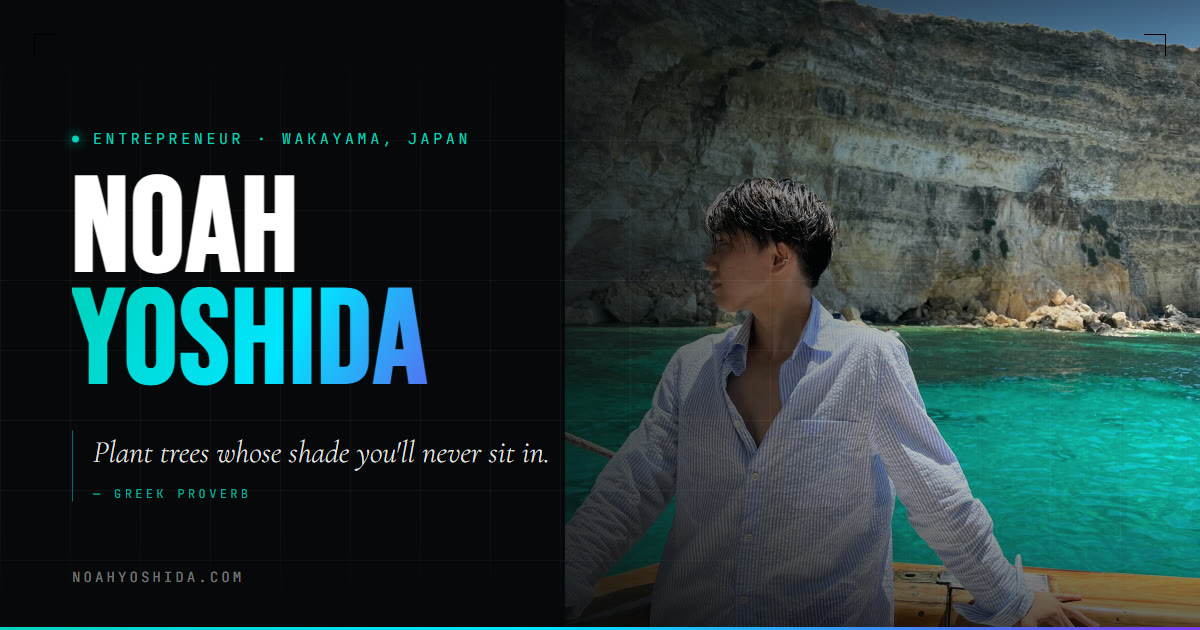
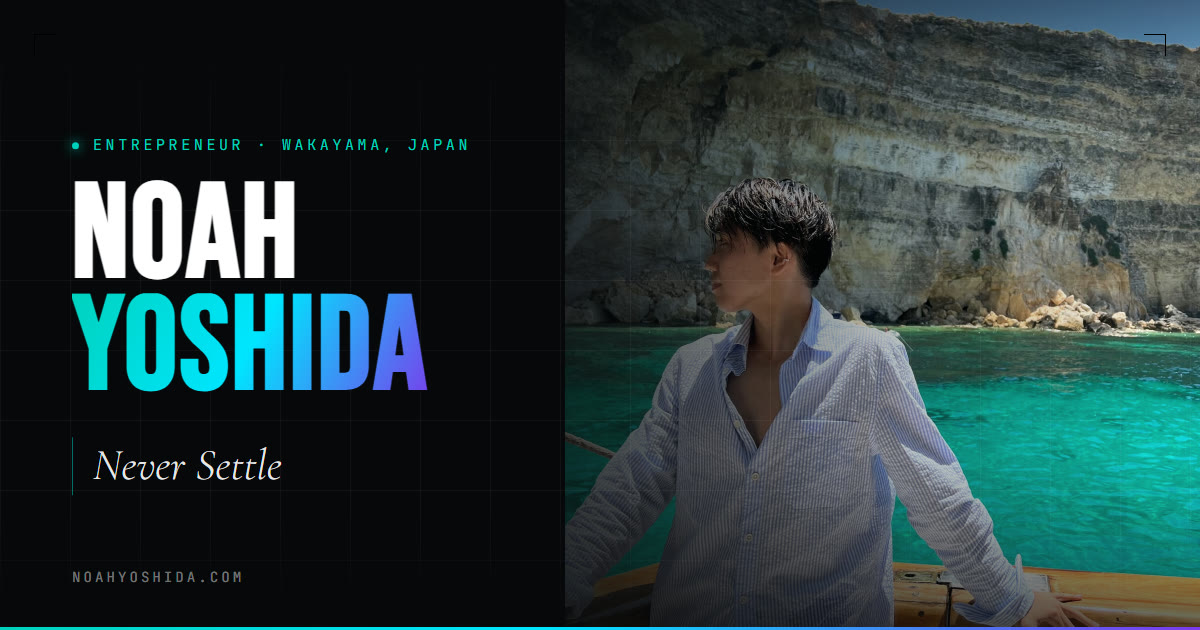
Add files via upload

diff --git a/index.html b/index.html
@@ -1226,9 +1226,9 @@ body nav { top: 28px !important; }
 #page-home .hero-v2 .hq-text{
   display:block;
   font-family:'Cormorant Garamond','Shippori Mincho',Georgia,serif;
-  font-size:clamp(1.15rem,2.1vw,1.6rem);
+  font-size:clamp(1.5rem,3vw,2.3rem);
   font-style:italic;font-weight:300;
-  line-height:1.45;letter-spacing:.01em;
+  line-height:1.35;letter-spacing:.02em;
   color:rgba(255,255,255,0.92);
 }
 #page-home .hero-v2 .hq-cite{
@@ -1240,7 +1240,7 @@ body nav { top: 28px !important; }
 #page-home .hero-v2 .hq-cite::before{content:'— ';}
 @media (max-width:720px){
   #page-home .hero-v2 .hero-quote{margin-top:20px;padding-left:14px;max-width:30ch;}
-  #page-home .hero-v2 .hq-text{font-size:1.12rem;line-height:1.5;}
+  #page-home .hero-v2 .hq-text{font-size:1.45rem;line-height:1.4;}
   #page-home .hero-v2 .hq-cite{font-size:.55rem;margin-top:9px;}
 }
 
@@ -1365,8 +1365,7 @@ body nav { top: 28px !important; }
         <span class="l2">YOSHIDA</span>
       </h1>
       <blockquote class="hero-quote">
-        <span class="hq-text">Plant trees whose shade you'll never sit in.</span>
-        <span class="hq-cite">Greek proverb</span>
+        <span class="hq-text">Never Settle</span>
       </blockquote>
       <div class="ctas">
         <button class="btn-v2 btn-teal-v2" onclick="goTo('about')">About Me <span class="arrow"></span></button>
@@ -1392,27 +1391,27 @@ body nav { top: 28px !important; }
     <div class="val-bg" id="val-bg"></div>
     <p class="sec-label" data-ja="価値観" data-en="Values">価値観</p>
     <h2 class="values-heading" data-ja="WHAT I <span class='teal'>LIVE BY.</span>" data-en="WHAT I <span class='teal'>LIVE BY.</span>">WHAT I <span class="teal">LIVE BY.</span></h2>
-    <p class="values-sub" data-ja="お金や肩書きより、誰とどこでどんな時間を過ごしたかのほうが、あとから効いてくると思っています。だから日々の選び方をそこに寄せています。" data-en="Not money or titles — but what time you spend, with whom, and where. I believe it's the accumulation of each moment that makes life truly rich.">お金や肩書きより、誰とどこでどんな時間を過ごしたかのほうが、あとから効いてくると思っています。だから日々の選び方をそこに寄せています。</p>
+    <p class="values-sub" data-ja="一度きりの人生で大切なのは、肩書きでも数字でもなく、誰とどこでどんな時間を過ごしたかだと思っています。だからこそ常に挑戦できる場所に身を置き、その瞬間を楽しみ切ることを大事にしています。" data-en="In a life you only get once, what matters is not a title or a number but who you spent your time with, and where. So I keep myself somewhere I can always take on something new, and try to enjoy the moment all the way through.">一度きりの人生で大切なのは、肩書きでも数字でもなく、誰とどこでどんな時間を過ごしたかだと思っています。だからこそ常に挑戦できる場所に身を置き、その瞬間を楽しみ切ることを大事にしています。</p>
     <div class="values-grid">
       <div class="val-card">
         <div class="val-en">FREEDOM</div>
         <div class="val-ja" data-ja="自由" data-en="Freedom">自由</div>
-        <div class="val-desc" data-ja="時間や場所に縛られずに働きたくて、そう動けるように事業のほうを組み立ててきました。一度きりなので、やりたいと思った側を選ぶようにしています。" data-en="A life untethered from time and place. You only get one — trust your instincts and move toward the things that matter.">時間や場所に縛られずに働きたくて、そう動けるように事業のほうを組み立ててきました。一度きりなので、やりたいと思った側を選ぶようにしています。</div>
+        <div class="val-desc" data-ja="一日24時間は誰にとっても等しく、それを何に使うかだけが自分次第だと思っています。だから時間や場所に縛られずに働ける形へ事業を組み立て、好きなことに全力を注いできました。道を選ぶときは、いつも直感に従うようにしています。" data-en="Everyone is given the same twenty-four hours; the only part that is yours to decide is what you spend them on. So I have built my work into a shape that is not bound to a time or a place, and poured everything into what I actually want to do. When there is a road to pick, I follow instinct.">一日24時間は誰にとっても等しく、それを何に使うかだけが自分次第だと思っています。だから時間や場所に縛られずに働ける形へ事業を組み立て、好きなことに全力を注いできました。道を選ぶときは、いつも直感に従うようにしています。</div>
       </div>
       <div class="val-card">
         <div class="val-en">CONNECTION</div>
         <div class="val-ja" data-ja="繋がり" data-en="Connection">繋がり</div>
-        <div class="val-desc" data-ja="旅先で一度きりすれ違った人にも、地元で長く付き合っている人にも、同じだけ丁寧でいたいと思っています。振り返ると、自分の節目にはいつも誰かがいました。" data-en="Ichigo-ichie: one lifetime, one meeting. A chance encounter abroad or a familiar face at home — every connection is irreplaceable, and nothing I hold higher.">旅先で一度きりすれ違った人にも、地元で長く付き合っている人にも、同じだけ丁寧でいたいと思っています。振り返ると、自分の節目にはいつも誰かがいました。</div>
+        <div class="val-desc" data-ja="人生は人と人とのご縁でできていると思っています。旅先での一度きりの立ち話が仕事になったり、地元の誰かの一言で進む道が変わったり。そうした偶然に何度も助けられてきたので、人とのつながりは何より大事にしています。" data-en="I think a life is built out of the people who pass through it. A single conversation on the road turns into work; one remark from someone back home changes which way you go. Chance like that has carried me more than once, so nothing matters to me more than the people around me.">人生は人と人とのご縁でできていると思っています。旅先での一度きりの立ち話が仕事になったり、地元の誰かの一言で進む道が変わったり。そうした偶然に何度も助けられてきたので、人とのつながりは何より大事にしています。</div>
       </div>
       <div class="val-card">
         <div class="val-en">ADVENTURE</div>
         <div class="val-ja" data-ja="挑戦" data-en="Adventure">挑戦</div>
-        <div class="val-desc" data-ja="何もないところから立ち上げるのが好きで、ロンドンのおにぎり屋も和歌山のツアーもそこから始まりました。うまくいくか分からない側に、毎回寄っていきます。" data-en="The thrill of building something from zero, and the nerve to step past the edge of what seems possible. Challenge is what makes life feel alive.">何もないところから立ち上げるのが好きで、ロンドンのおにぎり屋も和歌山のツアーもそこから始まりました。うまくいくか分からない側に、毎回寄っていきます。</div>
+        <div class="val-desc" data-ja="ゼロから何かを立ち上げる瞬間が、いちばん面白いと感じます。うまくいく保証がなくても、心がわくわくする側を毎回選ぶようにしています。" data-en="The moment something gets built out of nothing is the part I find most interesting. With no guarantee that it works, I still pick the side that excites me, every time.">ゼロから何かを立ち上げる瞬間が、いちばん面白いと感じます。うまくいく保証がなくても、心がわくわくする側を毎回選ぶようにしています。</div>
       </div>
       <div class="val-card">
         <div class="val-en">QUALITY</div>
         <div class="val-ja" data-ja="豊かさ" data-en="Quality">豊かさ</div>
-        <div class="val-desc" data-ja="稼いだ額よりも、気の合う人と過ごせた時間の長さで自分の一年を測っています。そこが満ちていれば、たいていのことは何とかなると思っています。" data-en="Being fully yourself in this moment, at ease, surrounded by people who matter. That — not the numbers — is what real wealth looks like.">稼いだ額よりも、気の合う人と過ごせた時間の長さで自分の一年を測っています。そこが満ちていれば、たいていのことは何とかなると思っています。</div>
+        <div class="val-desc" data-ja="周りにいる人が幸せそうにしているときが、自分にとっていちばん豊かな時間です。住む場所もやることも、そうなるほうを選んできました。" data-en="The richest hours I have are the ones where the people around me look happy. Where I live and what I work on have both been chosen with that in mind.">周りにいる人が幸せそうにしているときが、自分にとっていちばん豊かな時間です。住む場所もやることも、そうなるほうを選んできました。</div>
       </div>
     </div>
   </section>
@@ -1445,7 +1444,7 @@ body nav { top: 28px !important; }
         <span class="vent-big">TOUR</span>
         <div class="vent-underline"></div>
         <div class="vent-sub" data-ja="和歌山・紀美野町" data-en="Kimino, Wakayama">和歌山・紀美野町</div>
-        <p class="vent-body" data-ja="山の中で、狩猟と星空と焚火を一晩でたどる少人数のツアーを準備しています。2026年秋に日帰りから始めます。" data-en="A small-group tour through hunting, stargazing and fire, across a single night in the mountains. Day trips begin in autumn 2026.">山の中で、狩猟と星空と焚火を一晩でたどる少人数のツアーを準備しています。2026年秋に日帰りから始めます。</p>
+        <p class="vent-body" data-ja="山の中で、狩猟と星空と焚火を一晩でたどる少人数のツアーを準備しています。情報から一度離れて、五感で受け取る感覚を取り戻してもらう時間にしたいと思っています。" data-en="A small-group tour through hunting, stargazing and fire, across a single night in the mountains. I want it to be time away from the feed, where the senses come back.">山の中で、狩猟と星空と焚火を一晩でたどる少人数のツアーを準備しています。情報から一度離れて、五感で受け取る感覚を取り戻してもらう時間にしたいと思っています。</p>
       </div>
       <div class="vent-col">
         <div class="vent-icon">
@@ -1461,11 +1460,10 @@ body nav { top: 28px !important; }
         <div class="vent-icon">
           <svg viewBox="0 0 24 24" fill="none" stroke="currentColor" stroke-width="1.5" stroke-linecap="round" stroke-linejoin="round"><path d="M9 18V5.2l10-2.2V16"/><circle cx="6.5" cy="18" r="2.6"/><circle cx="16.5" cy="16" r="2.6"/></svg>
         </div>
-        <span class="vent-status">001 — 2026.10</span>
         <span class="vent-big">EVENTS</span>
         <div class="vent-underline"></div>
         <div class="vent-sub" data-ja="音楽と食の夜" data-en="Music & Food Nights">音楽と食の夜</div>
-        <p class="vent-body" data-ja="音楽と食を軸にした夜の集まりを企画しています。第1回は2026年10月、大阪の船上で自分がDJに立ちます。" data-en="An evening series built around music and food. For the first night, in October 2026, I am on the decks aboard a boat in Osaka.">音楽と食を軸にした夜の集まりを企画しています。第1回は2026年10月、大阪の船上で自分がDJに立ちます。</p>
+        <p class="vent-body" data-ja="音楽と食を軸にした夜の集まりを企画しています。クルーザーでDJをしたり、同じ食卓を囲んだり。来た人どうしがその場でつながっていくコミュニティにしたいと思っています。" data-en="An evening series built around music and food — a DJ set on a cruiser, a table shared. What I am really building is a room where the people in it connect to each other.">音楽と食を軸にした夜の集まりを企画しています。クルーザーでDJをしたり、同じ食卓を囲んだり。来た人どうしがその場でつながっていくコミュニティにしたいと思っています。</p>
       </div>
       <div class="vent-col">
         <div class="vent-icon">
@@ -1617,7 +1615,7 @@ body nav { top: 28px !important; }
         <div class="biz-name">TOUR</div>
         <div class="biz-sub" data-ja="和歌山・紀美野町の体験ツアー" data-en="Experience Tours in Kimino, Wakayama">和歌山・紀美野町の体験ツアー</div>
         <span class="biz-status">2026 Autumn</span>
-        <p class="biz-desc" data-ja="和歌山県紀美野町の山を舞台に、狩猟と天文台の星空と焚火を一晩でたどるツアーを設計しています。獣害という地域の課題を、来た人が体で分かる体験に変えたいと思っています。2026年秋に日帰りから始めて、宿泊は許認可を整えたうえで2027年春以降に広げる予定です。" data-en="A tour set in the mountains of Kimino, Wakayama, moving through hunting, an observatory sky and fire across a single night. I want the region's problem with crop damage to become something a visitor understands with their body rather than from a panel. Day trips start in autumn 2026; overnight stays follow from spring 2027, once the licensing is in place.">和歌山県紀美野町の山を舞台に、狩猟と天文台の星空と焚火を一晩でたどるツアーを設計しています。獣害という地域の課題を、来た人が体で分かる体験に変えたいと思っています。2026年秋に日帰りから始めて、宿泊は許認可を整えたうえで2027年春以降に広げる予定です。</p>
+        <p class="biz-desc" data-ja="和歌山県紀美野町の山を舞台に、狩猟と天文台の星空と焚火を一晩でたどるツアーを設計しています。獣害という地域の課題を、来た人が体で分かる体験に変えたいと思っています。情報が絶えず流れ込んでくる日常から一度離れて、本来そなわっているはずの人間らしい感覚を取り戻す。そういうリトリートとしての時間を届けたいと考えています。" data-en="A tour set in the mountains of Kimino, Wakayama, moving through hunting, an observatory sky and fire across a single night. I want the region's problem with crop damage to become something a visitor understands with their body rather than from a panel. Step out of a day where information never stops arriving, and the plainly human senses come back. That is the retreat I want this time to be.">和歌山県紀美野町の山を舞台に、狩猟と天文台の星空と焚火を一晩でたどるツアーを設計しています。獣害という地域の課題を、来た人が体で分かる体験に変えたいと思っています。情報が絶えず流れ込んでくる日常から一度離れて、本来そなわっているはずの人間らしい感覚を取り戻す。そういうリトリートとしての時間を届けたいと考えています。</p>
         <div class="biz-tags">
           <span class="biz-tag">Tour</span>
           <span class="biz-tag">Wakayama</span>
@@ -1674,8 +1672,7 @@ body nav { top: 28px !important; }
         </div>
         <div class="biz-name">EVENTS</div>
         <div class="biz-sub" data-ja="音楽と食のイベント" data-en="Music and Food Nights">音楽と食のイベント</div>
-        <span class="biz-status">001 — 2026.10</span>
-        <p class="biz-desc" data-ja="音楽と食を軸にした夜の集まりを企画しています。第1回は2026年10月、大阪の船上で自分がDJに立ちます。来た人どうしがその場で次につながっていくような、回を重ねるほど濃くなる場にしたいと思っています。" data-en="An evening series built around music and food. The first night runs in October 2026 aboard a boat in Osaka, with me on the decks. I want a room where the people in it connect to each other, and which gets denser every time it runs.">音楽と食を軸にした夜の集まりを企画しています。第1回は2026年10月、大阪の船上で自分がDJに立ちます。来た人どうしがその場で次につながっていくような、回を重ねるほど濃くなる場にしたいと思っています。</p>
+        <p class="biz-desc" data-ja="音楽と食を軸にした夜の集まりを企画しています。クルーザーでDJをしたり、同じ食卓を囲んだり。形はそのつど変わりますが、やりたいことは一つで、来た人どうしがその場でつながっていくコミュニティを育てることです。回を重ねるほど濃くなる場にしたいと思っています。" data-en="An evening series built around music and food — a DJ set on a cruiser, a shared table. The format shifts each time, but the aim does not: a community where the people in the room connect to each other, and which gets denser every time it runs.">音楽と食を軸にした夜の集まりを企画しています。クルーザーでDJをしたり、同じ食卓を囲んだり。形はそのつど変わりますが、やりたいことは一つで、来た人どうしがその場でつながっていくコミュニティを育てることです。回を重ねるほど濃くなる場にしたいと思っています。</p>
         <div class="biz-tags">
           <span class="biz-tag">DJ</span>
           <span class="biz-tag">Event</span>
@@ -1759,7 +1756,7 @@ body nav { top: 28px !important; }
         </div>
         <div class="biz-name">LEGACY</div>
         <div class="biz-sub" data-ja="70年続いた家業を継ぐ" data-en="Taking Over a 70-Year-Old Business">70年続いた家業を継ぐ</div>
-        <p class="biz-desc" data-ja="曽祖父が70年前に和歌山で創業した会社を、いま自分の代で引き継いでいます。建設の現場そのものは動かしていません。積み上がった信用と地元の関係を土台にして、事業の中身のほうを作り替えているところです。2027年に社名を変える予定です。" data-en="The company my great-grandfather founded in Wakayama seventy years ago has come to me. The construction side is not trading. What I am doing is rebuilding what the company does, on top of the credit and the local relationships it spent decades earning. It takes a new name in 2027.">曽祖父が70年前に和歌山で創業した会社を、いま自分の代で引き継いでいます。建設の現場そのものは動かしていません。積み上がった信用と地元の関係を土台にして、事業の中身のほうを作り替えているところです。2027年に社名を変える予定です。</p>
+        <p class="biz-desc" data-ja="曽祖父が70年前に和歌山で創業した会社を、いま自分の代で引き継いでいます。積み上がった信用と地元の関係を土台にして、事業の中身のほうを作り替えているところです。2027年に社名を変える予定です。" data-en="The company my great-grandfather founded in Wakayama seventy years ago has come to me. On top of the credit and the local relationships it spent decades earning, I am rebuilding what the company actually does. It takes a new name in 2027.">曽祖父が70年前に和歌山で創業した会社を、いま自分の代で引き継いでいます。積み上がった信用と地元の関係を土台にして、事業の中身のほうを作り替えているところです。2027年に社名を変える予定です。</p>
         <div class="biz-tags">
           <span class="biz-tag">Legacy</span>
           <span class="biz-tag">Wakayama</span>
@@ -1788,7 +1785,7 @@ body nav { top: 28px !important; }
         <div class="biz-name">ZEN MUSUBI.</div>
         <div class="biz-sub" data-ja="ロンドン発・おにぎりブランド" data-en="London Onigiri Brand">ロンドン発・おにぎりブランド</div>
         <span class="biz-status">2022 — 2024</span>
-        <p class="biz-desc" data-ja="ロンドンの大学院に通いながら、おにぎりのブランドをゼロから立ち上げました。日本のソウルフードを手作りのまま出したくて、仕込みから店頭まで自分でやりました。マーケットに出した日、会場でいちばん長い列ができたことをいまでも覚えています。動いていれば助けてくれる人が現れると思えるようになったのは、この経験からです。" data-en="While at graduate school in London I built an onigiri brand from nothing — prep through counter, all of it mine, because I wanted Japanese soul food to stay handmade. At one market our stall had the longest queue in the hall, and I still remember it. That is where I started believing that if you move, people show up to help.">ロンドンの大学院に通いながら、おにぎりのブランドをゼロから立ち上げました。日本のソウルフードを手作りのまま出したくて、仕込みから店頭まで自分でやりました。マーケットに出した日、会場でいちばん長い列ができたことをいまでも覚えています。動いていれば助けてくれる人が現れると思えるようになったのは、この経験からです。</p>
+        <p class="biz-desc" data-ja="日本のソウルフードを手作りのまま届けたくて、異国の地で起業を決意しました。現地でのイベント出店やブランドとのタイアップを重ね、当時ロンドンで初となるおにぎり専門店の出店に至りました。" data-en="I wanted Japanese soul food to reach people still made by hand, and decided to start something of my own in a country that was not mine. Market stalls and collaborations with local brands built it up, and it became what was then London's first shop dedicated to onigiri.">日本のソウルフードを手作りのまま届けたくて、異国の地で起業を決意しました。現地でのイベント出店やブランドとのタイアップを重ね、当時ロンドンで初となるおにぎり専門店の出店に至りました。</p>
         <div class="biz-tags">
           <span class="biz-tag">F&amp;B</span>
           <span class="biz-tag">Brand</span>
@@ -1816,7 +1813,7 @@ body nav { top: 28px !important; }
         </div>
         <div class="biz-name">WRITING</div>
         <div class="biz-sub" data-ja="noteでの発信" data-en="Writing on note">noteでの発信</div>
-        <p class="biz-desc" data-ja="社員のいない会社をAIと二人三脚でどう回しているかを、うまくいかなかったところも含めてnoteに書いています。同じように一人で事業をやっている人が、そのまま真似できる形で残したいと思っています。" data-en="I write on note about running a company with no employees alongside AI, including the parts that did not work. I want it to be usable by anyone else running something on their own.">社員のいない会社をAIと二人三脚でどう回しているかを、うまくいかなかったところも含めてnoteに書いています。同じように一人で事業をやっている人が、そのまま真似できる形で残したいと思っています。</p>
+        <p class="biz-desc" data-ja="AIをどう使えば仕事が速くなるのか、実際に試したことをそのまま書いています。あわせて、日々の中で考えたことや感じたことも、飾らずに残しています。" data-en="I write about how to actually put AI to work and get things done faster, based on what I have tried myself. Alongside that, what I think and feel day to day, set down plainly.">AIをどう使えば仕事が速くなるのか、実際に試したことをそのまま書いています。あわせて、日々の中で考えたことや感じたことも、飾らずに残しています。</p>
         <div class="biz-tags">
           <span class="biz-tag">note</span>
           <span class="biz-tag">AI</span>
